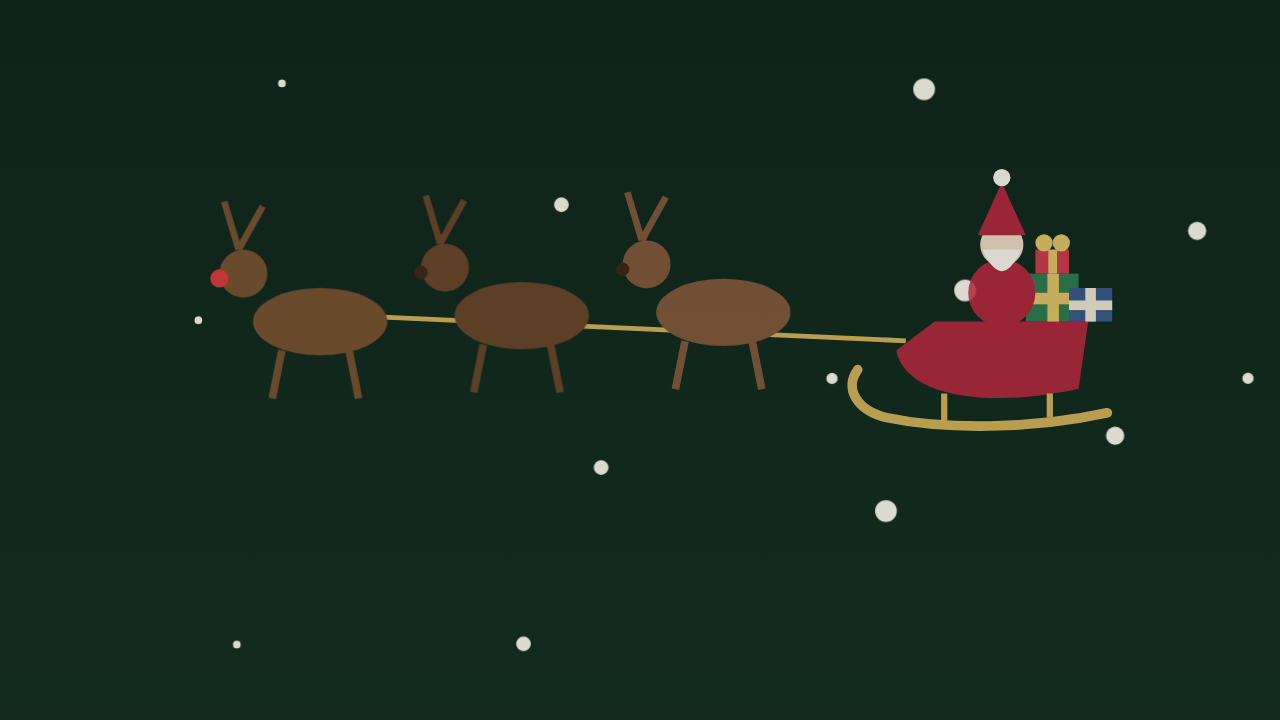
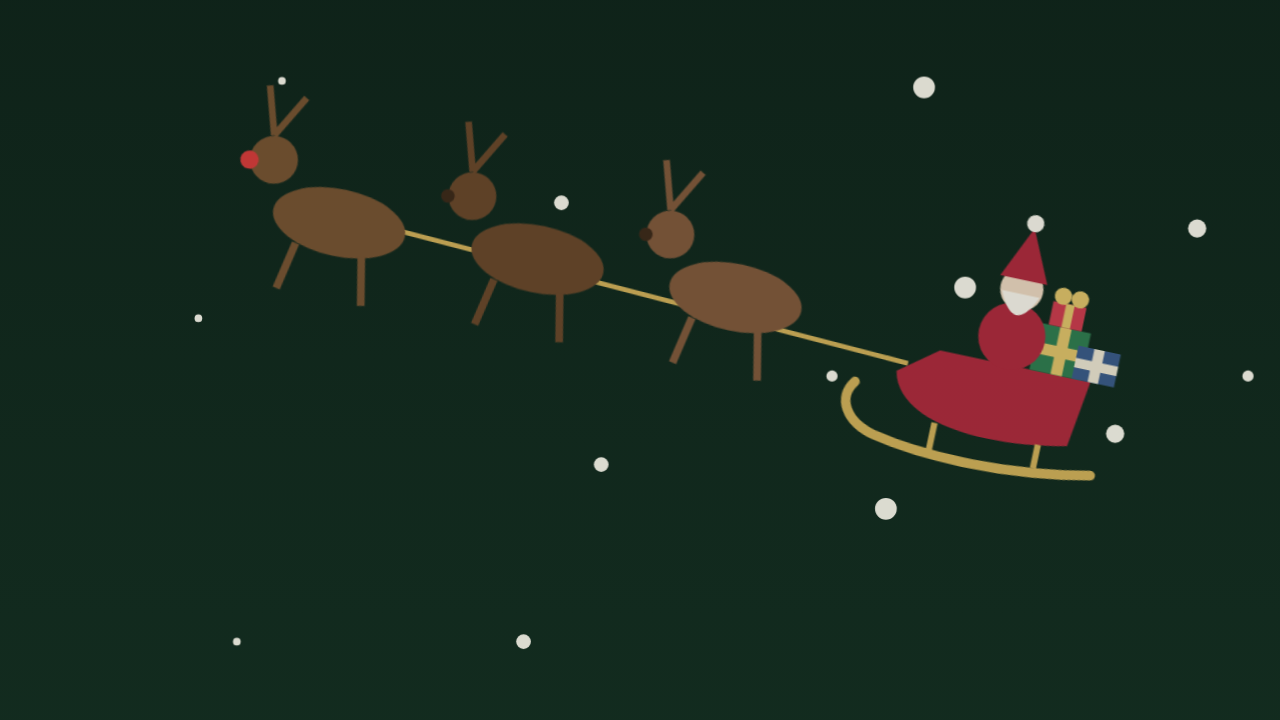
christmas-theme 0.3.2: the sleigh and reindeer climb into the sky, tilted nose up
Claude-Session: https://claude.ai/code/session_019US2gsjfkmf3Eo2ufavub8

Changed region(s): [[0.1562, 0.1222, 0.875, 0.6722], [0.9062, 0.3056, 0.9375, 0.3361]]

diff --git a/plugins/christmas-theme/hooks/register.tsx b/plugins/christmas-theme/hooks/register.tsx
@@ -46,7 +46,8 @@ const FLAKES = Array.from({ length: 48 }, (_, i) => {
 }).join('')
 
 // Santa, his sleigh and a team of three reindeer, drawn small around (0, 0). The reindeer are on the left and face left, so
-// the flight goes from right to left and the reindeer pulls the sleigh. They rest at the spot given by the outer
+// the flight goes from right to left and the reindeer pulls the sleigh. The whole group is tilted 12 degrees, nose up,
+// and the flight runs along that tilt, so they climb into the sky as they cross. They rest at the spot given by the outer
 // transform, and the slow flight across the sky only moves them sideways. The sky band a wide window shows is
 // about y 290 to 510, so they fly through the middle of it. The animation starts partway across (the negative
 // delay), so they are on screen when a session opens.
@@ -114,7 +115,7 @@ const SCENE = [
   '</style>',
   '<rect width="400" height="800" fill="url(#sky)"/>',
   FLAKES,
-  `<g transform="translate(250 400) scale(1.5)" opacity=".85"><g class="sl">${SANTA}</g></g>`,
+  `<g transform="translate(250 400) rotate(12) scale(1.5)" opacity=".85"><g class="sl">${SANTA}</g></g>`,
   '</svg>',
 ].join('')
 

diff --git a/README.es.md b/README.es.md
@@ -43,7 +43,7 @@ Mods bonitas para Claude Code: cambian cómo se ve y qué muestra. Un aspecto na
 
 | Mod | Qué hace |
 |---|---|
-| `christmas-theme` | Verde pino profundo con texto crema cálido, acentos granate y dorado, una nevada lenta, y Santa con su trineo lleno de regalos envueltos, tirado por un tiro de tres renos con Rudolph delante, cruzando el cielo una vez cada 70 segundos. Oscuro. |
+| `christmas-theme` | Verde pino profundo con texto crema cálido, acentos granate y dorado, una nevada lenta, y Santa con su trineo lleno de regalos envueltos, tirado por un tiro de tres renos con Rudolph delante, subiendo por el cielo una vez cada 70 segundos. Oscuro. |
 | `christmas-town-theme` | Otro aspecto navideño, con un pueblo: una noche azul medianoche con casas con tejados nevados, chimeneas de ladrillo y sus ventanas encendidas, una iglesia con campanario, pinos con luces de colores, una luna, humo de chimeneas que se eleva despacio y una nevada lenta. Oscuro. Instálalo en lugar de `christmas-theme`, no a la vez. |
 | `christmas-market-theme` | Un mercadillo de Navidad de noche: tres puestos de madera (rojo, mostaza y verde) con tejados nevados y toldos a rayas, guirnaldas de luces de colores entre ellos, un abeto alto iluminado detrás del central, dos mesas altas con una vela y una taza humeante, y seis personas con abrigos de invierno comiendo y bebiendo (un salchichón en pan, un pretzel, un crepe, tazas de algo caliente). Los brazos suben despacio hacia la boca y sale vapor de las tazas. Oscuro. Instálalo en lugar de los otros temas navideños, no a la vez. |
 | `christmas-countdown` | Muestra "🎄 N days to Christmas" en la línea de estado, y "🎄 Merry Christmas!" el mismo día. Sigue siendo correcto si dejas una sesión abierta pasada la medianoche. |

diff --git a/README.md b/README.md
@@ -43,7 +43,7 @@ Pretty mods for Claude Code: changes to how it looks and what it shows. A Christ
 
 | Mod | What it does |
 |---|---|
-| `christmas-theme` | Deep pine green with warm cream text, cranberry accents and gold, a slow snowfall, and Santa with his sleigh full of wrapped presents, pulled by a team of three reindeer led by Rudolph, crossing the sky once every 70 seconds. Dark. |
+| `christmas-theme` | Deep pine green with warm cream text, cranberry accents and gold, a slow snowfall, and Santa with his sleigh full of wrapped presents, pulled by a team of three reindeer led by Rudolph, climbing across the sky once every 70 seconds. Dark. |
 | `christmas-town-theme` | Another Christmas look, with a town: a midnight-blue night with snow-roofed houses with brick chimneys and their lit windows, a church with a steeple, pine trees with coloured lights, a moon, drifting chimney smoke and slow snowfall. Dark. Install it instead of `christmas-theme`, not with it. |
 | `christmas-market-theme` | A Christmas market at night: three wooden stalls (red, mustard and green) with snowy roofs and striped awnings, strings of coloured lights between them, a tall lit tree behind the middle one, two standing tables with a candle and a steaming mug, and six people in winter coats eating and drinking (a sausage in a bun, a pretzel, a crepe, mugs of something hot). Their arms lift slowly to their mouths and steam rises from the mugs. Dark. Install it instead of the other Christmas themes, not with them. |
 | `christmas-countdown` | Shows "🎄 N days to Christmas" in the status line, and "🎄 Merry Christmas!" on the day. It stays correct if a session is left open past midnight. |
